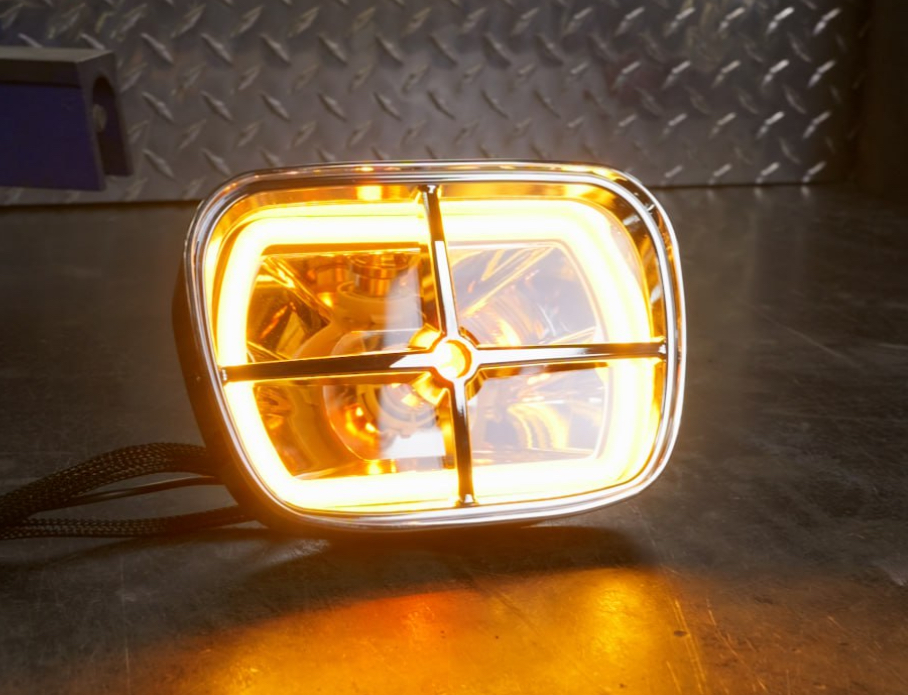
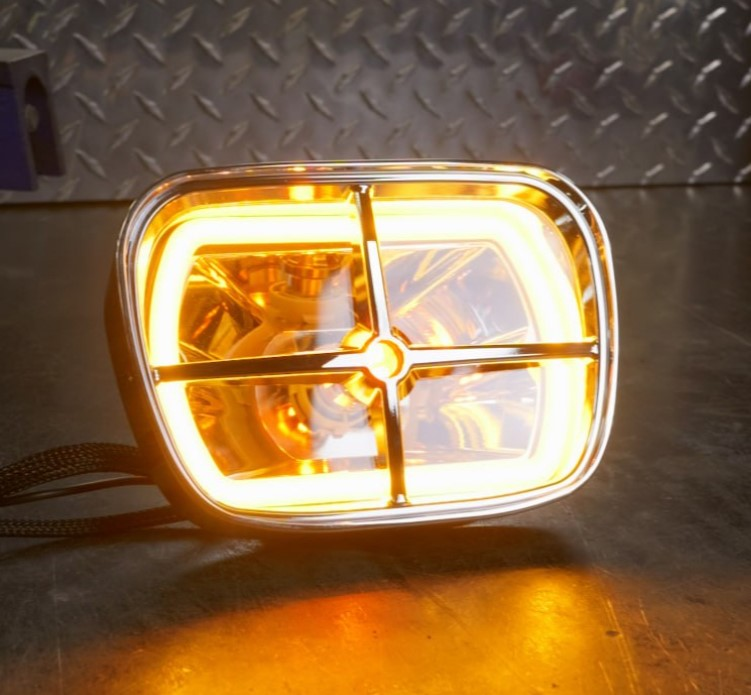
Add files via upload

diff --git a/index.html b/index.html
@@ -59,7 +59,7 @@
 								<div class="column">
 									<figure style="float:left;">
 										<a href="#FBPL">
-											<img src="images/FBParkingLightFinal.jpg" alt="" style="width:300px;height:250px;max-width: 70%;"/>
+											<img src="images/FBParkingLightFinal.jpg" alt="" style="width:300px;height:300px;max-width: 60%;"/>
 										</a>
 										
 
@@ -80,7 +80,7 @@
 								<div class="column">
 									<figure style="float:left;">
 										<a href="#280ZX">
-											<img src="images/280ZXTL.jpg" alt="" style="width:300px;height:250px;max-width: 70%;"/>
+											<img src="images/280ZXTL.jpg" alt="" style="width:300px;height:250px;max-width: 60%;"/>
 										</a>
 										
 
@@ -144,7 +144,7 @@
 								<div class="column">
 									<figure style="float:left;">
 										<a href ="#Zapper">
-											<img src="images/car_landscape.jpg" alt="" style="width:300px;height:250px;max-width: 60%;"/>
+											<img src="images/COVIDZapper.png" alt="" style="width:300px;height:250px;max-width: 60%;"/>
 										</a>
 										<figcaption style="float:right;max-width: 40%;min-width: 40%;padding-left: 15px;">
 											<a href ="#Zapper">
@@ -166,50 +166,37 @@
 					<article id="FBPL">
 						<h2 class="major">Classic Car Parking Light</h2>
 						<span>
-							<img src="images/rack_and_piston.png" alt="" style="width:350px;height:300px;max-width:47.5%;max-height:45%;"/>
-							<img src="images/robot_car.png" alt="" style="width:350px;height:300px;max-width:47.5%;max-height:45%;"/>
-							<p>Firebird Parking Light Text. Placeholder. Placeholder. Placeholder. Placeholder. Placeholder. Placeholder.
-								Placeholder. Placeholder. Placeholder. Placeholder. Placeholder. Placeholder. Placeholder. Placeholder. 
-								Placeholder. Placeholder. Placeholder. Placeholder. Placeholder. Placeholder. Placeholder. 
-							</p>
-						</span>
-
-						<span>
-							<img src="images/robotcontroller.jpg" alt="" style="width:400px;height:400px"/>
-							<p>Placeholder. Placeholder. Placeholder. Placeholder. Placeholder. Placeholder. 
-								Placeholder. Placeholder. Placeholder. Placeholder. 
-								<br>
-								<br>
-								Placeholder. Placeholder. Placeholder. Placeholder. Placeholder. 
-								Placeholder. Placeholder. Placeholder. Placeholder. Placeholder. 
-								Placeholder. Placeholder. Placeholder. Placeholder. Placeholder. 
-								Placeholder. Placeholder. Placeholder. Placeholder. 
-							</p>
-						</span>
-
-						<span>
-							<a href="images/steering_torque.jpg" data-lightbox="motor_mount" data-title="Steering Torque">
-								<img src="images/steering_torque.jpg" alt="" style="min-width:75%;height:400px"/>
-							</a>
+							<img src="images/FBPLOEM.jpg" alt="" style="width:350px;height:300px"/>
 							<p>
-								Placeholder. Placeholder. Placeholder. Placeholder. Placeholder. Placeholder. 
-								Placeholder. Placeholder. Placeholder. Placeholder. Placeholder. 
-								Placeholder. Placeholder. Placeholder. Placeholder. Placeholder. Placeholder. 
-								Placeholder. Placeholder. Placeholder. 
+								This original parking lamp was from a 1970 Pontiac Firebird that utilized a reflector style halogen bulb to 
+								for it's primary light output. This project was to modernize this housing to achieve an OEM fitment and increase 
+								light output. The housing was 3D scanned and the used as a reference to redesign the housing. 
 							</p>
+						</span>
+
+						<span>
+							<img src="images/FBCAD.png" alt="" style="width:700px;height:400px"/>
+							<p> The new housing was designed to utilize the OEM connector and designed to have similar characteristics 
+								of the original housing. This also included the use of an LED bulb as well as a halo LED to increase light output.
+							</p>
+						</span>
+
+						<span>
+							<img src="images/FBParkingLightFinal.jpg" alt="" style="width:560px;height:520px"/>
+							<p> The final product was created with a CNC in 6061 Aluminum with either a chrome finish or a gloss black. 
+								
+							</p>
+						</span>
+
+				
 
 
 					</article>
 
 					<article id="280ZX">
 						<h2 class="major">Drop-in Replacement Boards</h2>
-						<p>
-							Placeholder. Placeholder. Placeholder. 
-							Placeholder. Placeholder. Placeholder. 
-							Placeholder. Placeholder. Placeholder. 
-						</p>
-						<br>
-						<img src="images/one_rm.png" alt="" width="450px" height = "300px"/>
+
+						<img src="images/280ZXOEM.png" alt="" width="500px" height = "300px"/>
 						<p>
 							Placeholder. Placeholder. 
 							Placeholder. Placeholder. 
